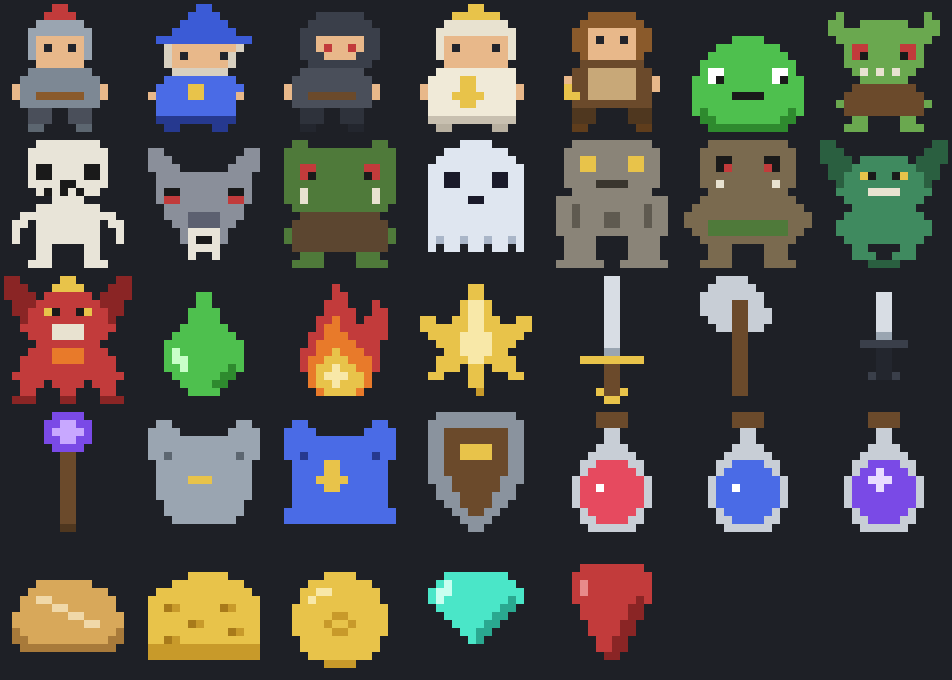
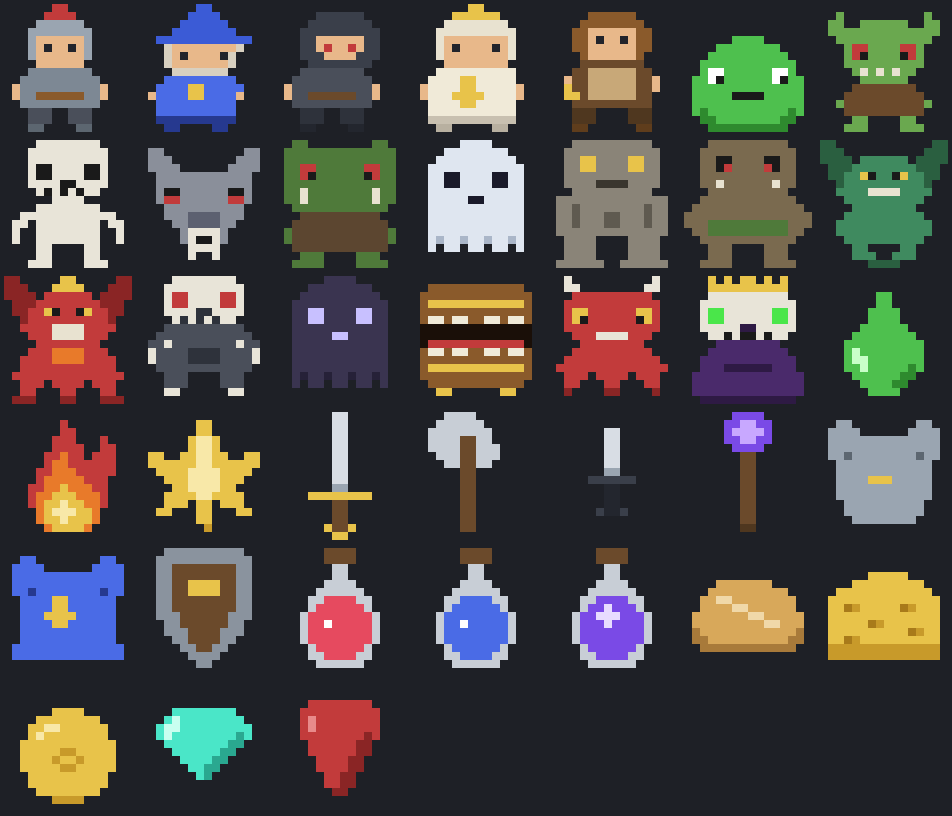
feat: the Undermountain, floors 11-15 with a lich final boss (PIX-17)
Clearing the Ashen Throne now opens a descent below the mountain:
five new floors with five new monsters (Bone Knight, Shade, Mimic,
Fire Imp, and Morvax the Deathless), new loot including the Obsidian
Blade, Runic Armor and Greater Health Potions, and the victory screen
moved to floor 15.

Saves stay compatible with no version bump, and normalizeSave now
recomputes unlockedLevel from clearedLevels so players who already
beat the dragon wake up with floor 11 open. Covered by a new e2e spec.

diff --git a/src/game/items.ts b/src/game/items.ts
@@ -75,6 +75,18 @@ const list: Item[] = [
     slot: "weapon",
   },
   {
+    id: "obsidian_blade",
+    name: "Obsidian Blade",
+    category: "weapons",
+    sprite: "sword",
+    weight: 12,
+    value: 700,
+    description: "Volcanic glass, sharper than regret and twice as dark.",
+    damage: 25,
+    scaling: "strength",
+    slot: "weapon",
+  },
+  {
     id: "dragonbane",
     name: "Dragonbane",
     category: "weapons",
@@ -121,6 +133,17 @@ const list: Item[] = [
     slot: "body",
   },
   {
+    id: "runic_armor",
+    name: "Runic Armor",
+    category: "apparel",
+    sprite: "armor",
+    weight: 18,
+    value: 550,
+    description: "Dwarven runes still glow when danger is near. They glow a lot down here.",
+    armor: 9,
+    slot: "body",
+  },
+  {
     id: "steel_shield",
     name: "Steel Shield",
     category: "apparel",
@@ -151,6 +174,16 @@ const list: Item[] = [
     value: 25,
     description: "Restores 15 MP. Fizzy.",
     restoreMp: 15,
+  },
+  {
+    id: "greater_potion",
+    name: "Greater Health Potion",
+    category: "potions",
+    sprite: "potion_hp",
+    weight: 1,
+    value: 70,
+    description: "Restores 60 HP. Brewed strong for those who go below.",
+    restoreHp: 60,
   },
   {
     id: "elixir",
@@ -211,6 +244,15 @@ const list: Item[] = [
     weight: 2,
     value: 350,
     description: "Still warm. Proof of the deed.",
+  },
+  {
+    id: "lich_crown",
+    name: "Crown of the Deathless",
+    category: "misc",
+    sprite: "gold",
+    weight: 1,
+    value: 800,
+    description: "Its previous owner has no further use for it. Probably.",
   },
 ];
 

diff --git a/src/game/levels.ts b/src/game/levels.ts
@@ -81,6 +81,47 @@ export const LEVELS: DungeonLevel[] = [
     rewardItemIds: ["dragon_scale", "gem"],
     rewardGold: 500,
   },
+  // ---------------- the Undermountain ----------------
+  {
+    level: 11,
+    name: "The Sunless Stair",
+    description: "Behind the dragon's hoard, a stairway descends into the dark.",
+    encounters: [{ monsterId: "wyvern" }, { monsterId: "boneknight" }, { monsterId: "boneknight", elite: true }],
+    rewardItemIds: ["greater_potion", "greater_potion"],
+    rewardGold: 300,
+  },
+  {
+    level: 12,
+    name: "Hall of Echoes",
+    description: "The dead of the deep kingdom whisper. Some of them still march.",
+    encounters: [{ monsterId: "boneknight" }, { monsterId: "shade" }, { monsterId: "shade", elite: true }],
+    rewardItemIds: ["obsidian_blade", "greater_potion"],
+    rewardGold: 350,
+  },
+  {
+    level: 13,
+    name: "The Vaulted Hoard",
+    description: "A treasury untouched for centuries. Some of the chests are hungry.",
+    encounters: [{ monsterId: "shade" }, { monsterId: "mimic" }, { monsterId: "mimic", elite: true }],
+    rewardItemIds: ["runic_armor", "gem"],
+    rewardGold: 420,
+  },
+  {
+    level: 14,
+    name: "Ember Warrens",
+    description: "The tunnels glow warm. The imps that dug them think you look flammable.",
+    encounters: [{ monsterId: "mimic" }, { monsterId: "imp" }, { monsterId: "imp", elite: true }],
+    rewardItemIds: ["elixir", "greater_potion", "gem"],
+    rewardGold: 500,
+  },
+  {
+    level: 15,
+    name: "Throne of the Deathless",
+    description: "Morvax has waited below since before the mountain had a name. End this. Again.",
+    encounters: [{ monsterId: "imp" }, { monsterId: "lich" }],
+    rewardItemIds: ["lich_crown", "gem"],
+    rewardGold: 1200,
+  },
 ];
 
 export function getLevel(level: number): DungeonLevel {

diff --git a/src/game/monsters.ts b/src/game/monsters.ts
@@ -71,6 +71,42 @@ const list: Monster[] = [
     gold: 250,
     inflicts: { kind: "burn", chance: 0.45, turns: 2, power: 8 },
   },
+  // ---------------- the Undermountain (floors 11-15) ----------------
+  { id: "boneknight", name: "Bone Knight", sprite: "boneknight", maxHp: 130, attack: 34, defense: 11, xp: 95, gold: 70 },
+  {
+    id: "shade",
+    name: "Shade",
+    sprite: "shade",
+    maxHp: 120,
+    attack: 38,
+    defense: 8,
+    xp: 105,
+    gold: 80,
+    inflicts: { kind: "stun", chance: 0.3, turns: 1, power: 0 },
+  },
+  { id: "mimic", name: "Mimic", sprite: "mimic", maxHp: 160, attack: 37, defense: 12, xp: 120, gold: 170 },
+  {
+    id: "imp",
+    name: "Fire Imp",
+    sprite: "imp",
+    maxHp: 150,
+    attack: 42,
+    defense: 10,
+    xp: 140,
+    gold: 100,
+    inflicts: { kind: "burn", chance: 0.4, turns: 2, power: 9 },
+  },
+  {
+    id: "lich",
+    name: "Morvax the Deathless",
+    sprite: "lich",
+    maxHp: 260,
+    attack: 48,
+    defense: 12,
+    xp: 350,
+    gold: 700,
+    inflicts: { kind: "poison", chance: 0.45, turns: 3, power: 10 },
+  },
 ];
 
 export const MONSTERS: Record<string, Monster> = Object.fromEntries(list.map((m) => [m.id, m]));

diff --git a/e2e/saves.spec.ts b/e2e/saves.spec.ts
@@ -50,6 +50,32 @@ test('save code round-trip: copy on one profile, import on a fresh one', async (
   await expect(page.getByText('Traveler')).toBeVisible()
 })
 
+test('a pre-Undermountain finisher save wakes up with floor 11 unlocked', async ({ page }) => {
+  // A v2 save from when floor 10 was the end: unlockedLevel capped at 10.
+  const finisher = {
+    version: 2,
+    state: {
+      ...V1_SAVE,
+      hero: { ...V1_SAVE.hero, level: 12, hp: 100, mp: 10 },
+      unlockedLevel: 10,
+      clearedLevels: [1, 2, 3, 4, 5, 6, 7, 8, 9, 10],
+      shopOpen: false,
+    },
+  }
+  await page.goto('./')
+  await page.evaluate(
+    ([key, save]) => localStorage.setItem(key as string, JSON.stringify(save)),
+    [SAVE_KEY, finisher] as const,
+  )
+  await page.reload()
+  await page.getByRole('button', { name: 'Continue' }).click()
+  await expect(page.getByText('The Undermountain')).toBeVisible()
+  await expect(page.getByRole('button', { name: /The Sunless Stair/ })).toBeEnabled()
+  // floor 12 must still be locked, and locked floors hide their name behind ???
+  await expect(page.getByText('Hall of Echoes')).toBeHidden()
+  await expect(page.getByText('???')).toHaveCount(4)
+})
+
 test('garbage save codes are rejected with an error', async ({ page }) => {
   await page.goto('./')
   await page.getByRole('button', { name: 'Import save code' }).click()

diff --git a/src/state/save.ts b/src/state/save.ts
@@ -1,3 +1,4 @@
+import { LEVELS } from "../game/levels";
 import type { GameState } from "../game/types";
 import { initialState } from "./gameReducer";
 
@@ -39,7 +40,20 @@ function isEnvelope(value: unknown): value is Envelope {
 function normalizeSave(state: unknown): GameState | null {
   if (!state || typeof state !== "object" || !(state as GameState).hero) return null;
   // Never resume mid-battle or mid-menu; wake up back in town.
-  return { ...initialState, ...(state as GameState), screen: "hub", battle: null, inventoryOpen: false, shopOpen: false };
+  const save: GameState = {
+    ...initialState,
+    ...(state as GameState),
+    screen: "hub",
+    battle: null,
+    inventoryOpen: false,
+    shopOpen: false,
+  };
+  // Recompute unlock progress: when new floors ship, players who had cleared
+  // the old final floor were capped at the old LEVELS.length and would
+  // otherwise never see the new content.
+  const maxCleared = save.clearedLevels.reduce((max, level) => Math.max(max, level), 0);
+  save.unlockedLevel = Math.max(save.unlockedLevel, Math.min(maxCleared + 1, LEVELS.length));
+  return save;
 }
 
 /** Takes any historical save payload and upgrades it to the current version. */

diff --git a/src/components/Victory.tsx b/src/components/Victory.tsx
@@ -9,11 +9,11 @@ type VictoryProps = {
 export function Victory({ hero, onContinue }: VictoryProps) {
   return (
     <div className="screen victory-screen">
-      <Sprite name="dragon" size={128} className="fallen" alt="Defeated dragon" />
+      <Sprite name="lich" size={128} className="fallen" alt="Defeated lich" />
       <h1 className="game-title">VICTORY</h1>
       <p className="tagline">
-        {hero.name} has slain Fafnyr the Ashen. The mountain is quiet, the tavern is loud, and the cheese has never
-        tasted better.
+        {hero.name} slew Fafnyr the Ashen above and cast down Morvax the Deathless below. The mountain is quiet at
+        last, the tavern is loud, and the cheese has never tasted better.
       </p>
       <button className="btn btn-primary" onClick={onContinue}>
         Return to town

diff --git a/src/components/Hub.tsx b/src/components/Hub.tsx
@@ -1,3 +1,4 @@
+import { Fragment } from "react";
 import { carriedWeight, carryCapacity, totalArmor, weaponOf } from "../game/character";
 import { LEVELS } from "../game/levels";
 import { getMonster } from "../game/monsters";
@@ -80,8 +81,9 @@ export function Hub({ state, onEnterLevel, onRest, onOpenInventory, onOpenShop }
           const locked = lvl.level > state.unlockedLevel;
           const boss = getMonster(lvl.encounters[lvl.encounters.length - 1].monsterId);
           return (
+            <Fragment key={lvl.level}>
+            {lvl.level === 11 && <h2 className="screen-title undermountain-title">The Undermountain</h2>}
             <button
-              key={lvl.level}
               className={`level-card ${cleared ? "cleared" : ""} ${locked ? "locked" : ""}`}
               disabled={locked || overEncumbered}
               onClick={() => onEnterLevel(lvl.level)}
@@ -96,6 +98,7 @@ export function Hub({ state, onEnterLevel, onRest, onOpenInventory, onOpenShop }
               </span>
               {!locked && <Sprite name={boss.sprite} size={40} alt={boss.name} />}
             </button>
+            </Fragment>
           );
         })}
       </main>

diff --git a/src/components/TitleScreen.tsx b/src/components/TitleScreen.tsx
@@ -45,7 +45,7 @@ export function TitleScreen({ canContinue, saveCode, onNewGame, onContinue, onIm
         <Sprite name="wolf" size={48} />
       </div>
       <h1 className="game-title">PIXELHEIM</h1>
-      <p className="tagline">Ten floors. One dragon. Infinite cheese wheels.</p>
+      <p className="tagline">Fifteen floors. One dragon. Worse things below.</p>
       <div className="menu">
         <button className="btn btn-primary" onClick={onNewGame}>
           New Game
@@ -85,7 +85,7 @@ export function TitleScreen({ canContinue, saveCode, onNewGame, onContinue, onIm
           </button>
         </div>
       )}
-      <p className="footnote">v0.3 - a retro RPG built with React + TypeScript</p>
+      <p className="footnote">v0.4 - a retro RPG built with React + TypeScript</p>
     </div>
   );
 }

diff --git a/src/index.css b/src/index.css
@@ -320,6 +320,10 @@ body {
   flex-direction: column;
   gap: 10px;
 }
+.undermountain-title {
+  margin: 18px 0 4px;
+  color: var(--mp);
+}
 .level-card {
   font: inherit;
   color: var(--text);

diff --git a/src/game/shop.ts b/src/game/shop.ts
@@ -24,6 +24,7 @@ const CATALOG: ShopEntry[] = [
   { itemId: "steel_axe", unlockLevel: 7 },
   { itemId: "iron_armor", unlockLevel: 7 },
   { itemId: "arch_staff", unlockLevel: 8 },
+  { itemId: "greater_potion", unlockLevel: 11 },
 ];
 
 export function shopStock(unlockedLevel: number): Item[] {

diff --git a/README.md b/README.md
@@ -17,11 +17,11 @@
 
 ## The game
 
-You are an adventurer climbing the Ashen Mountain, ten floors of increasingly rude monsters, to slay **Fafnyr the Ashen** at the summit.
+You are an adventurer climbing the Ashen Mountain, ten floors of increasingly rude monsters, to slay **Fafnyr the Ashen** at the summit. Behind the dragon's hoard, a stairway descends: five more floors of the **Undermountain**, down to **Morvax the Deathless**.
 
 - **4 playable roles**: Warrior, Mage, Rogue, Cleric, each with its own stats, growth, and three skills unlocked at levels 1, 3 and 6 (Berserk, Frost Nova, Poison Blade, Sanctuary...)
 - **Status effects**: poison and burn tick every turn, stun steals turns; monsters inflict them and so do your skills
-- **10 dungeon floors**: from the Mossy Cellar's slimes to the dragon on the Ashen Throne, each floor is a gauntlet of fights ending with an elite
+- **15 dungeon floors**: from the Mossy Cellar's slimes to the dragon on the Ashen Throne, then down through bone knights, shades, mimics and fire imps to the lich below; each floor is a gauntlet of fights ending with an elite
 - **Turn-based combat**: attack, cast your role skill, chug a potion, or flee like a coward (dexterity helps)
 - **Skyrim-style inventory**: category tabs (Weapons / Apparel / Potions / Food / Misc), equip weapon + body + off-hand, carry weight with over-encumbrance, and yes, cheese wheels
 - **Progression**: XP, level ups with per-role stat growth, gold, loot rewards per floor, rest at the inn
@@ -75,6 +75,7 @@ All the pixel art in `public/sprites/` is generated by [`scripts/generate-sprite
 ## Roadmap ideas
 
 - [x] Shops and gold sinks beyond the inn
+- [x] The Undermountain: floors 11-15 and a second boss
 - [ ] Random loot drops and rarities
 - [x] More skills per role, unlocked by level
 - [x] Status effects (poison, burn, stun)